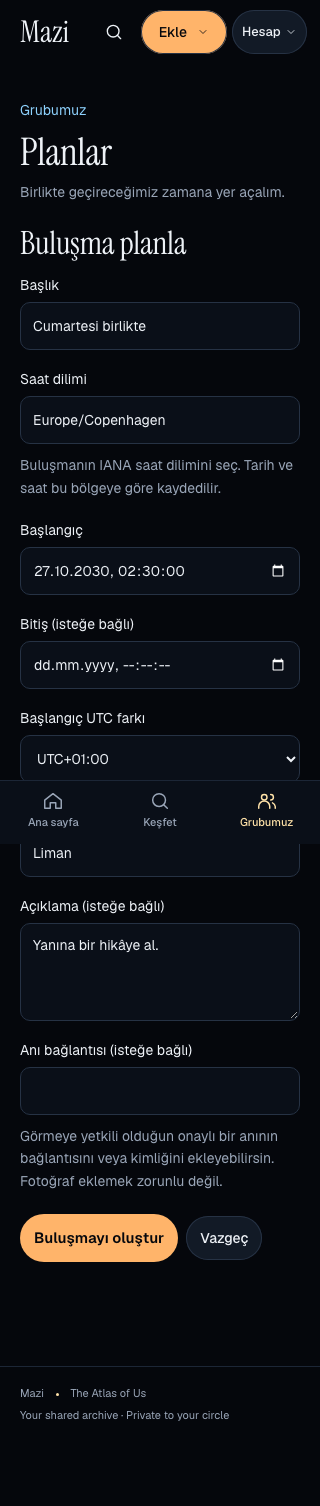
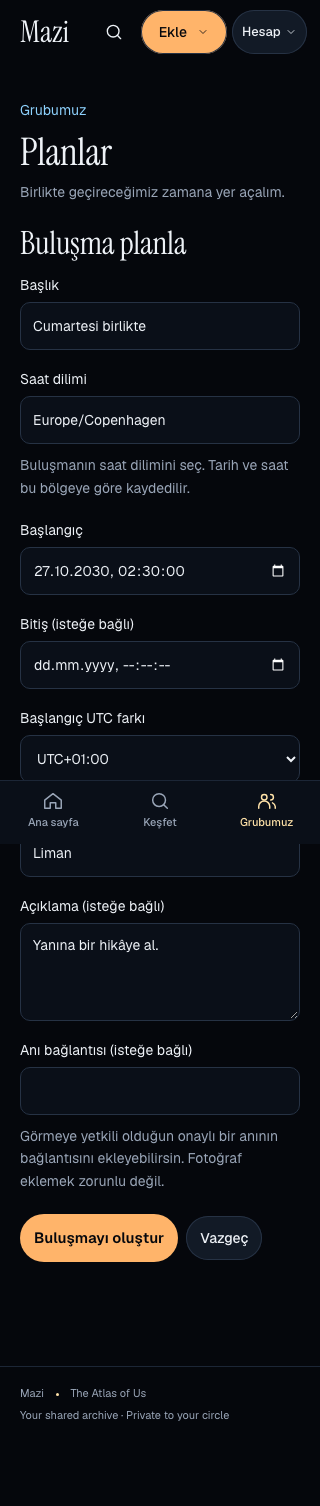
test(plans): verify reviewed edits against an isolated archive

diff --git a/tests/backend/social/plan_link_probe.py b/tests/backend/social/plan_link_probe.py
@@ -1,6 +1,9 @@
 """Run UI-produced edit patches against an isolated synthetic archive."""
 import json
+import os
 import sys
+
+os.environ["MAZI_BACKEND"] = "local"
 
 from mazi.social import social
 from tests.backend.social.test_plans import PlanMemoryTests

diff --git a/work/poteto/social-plans-ui/VERIFICATION.md b/work/poteto/social-plans-ui/VERIFICATION.md
@@ -56,3 +56,22 @@ D17 exposes one configured circle. The browser fixture changes that configured c
 The app writes no private plan text or draft to localStorage or sessionStorage. No production API, schema, hosted environment or personal archive changed in this interface slice. The test-only controls live in `tests/browser/social_server.py` and are excluded from deployment. That fixture forces the local backend and a temporary archive regardless of inherited hosted settings.
 
 `npm run test:app` now runs the existing integrated archive fixture and the separate empty social fixture in sequence. The coordinator owns the final complete regression run, independent review, PR publication, merge and deployment. The five-friend findability study and physical-phone pilot remain open. Phone evidence uses Chromium emulation and does not establish production milestone acceptance.
+
+## Accepted review correction
+
+The independent review found that an organizer-hidden memory projects as null while the persisted plan association remains available to other members. The original full-field edit payload silently unlinked it. Red commit `6eb218a` demonstrates that unwanted payload ([red output](HIDDEN_LINK_RED.txt)); fix `ce010ca` compares fields against the original opened draft, retaining that baseline across stale-revision reload. Explicit visible-link clearing still sends null. An untouched draft closes without a server write. Access loss and successful writes discard the baseline. Product help now asks for a timezone and an approved memory link without implementation vocabulary.
+
+The focused DOM contract now submits real input changes. Its isolated Python probe takes the actual UI-produced title-only and explicit-unlink patches into a fresh local MemoryStore using the existing synthetic approved-memory fixture. It hides the organizer's memory, verifies the other member can still see the association, edits, unhides and verifies the link returns, then explicitly clears it and verifies both members lose the association. The temporary archive is removed in finally; the empty browser fixture is never populated or changed by this test. The probe forces local storage independently of inherited environment.
+
+Current `origin/main` `39249c4` was merged at `784c580`. Only appended canonical-document conflicts required reconciliation; both sides were retained, and the superseded backend-only acceptance sentence was removed. This includes the current combined comments, reactions, declarations and selected-photo backend work.
+
+Verification on that combined app:
+
+- `node --test tests/dom/social-plans.test.mjs tests/dom/route-history.test.mjs tests/dom/discord-return.test.mjs`: 28 pass, including the real archive probe ([output](REVIEW_DOM.txt)).
+- `MAZI_UNIFIED_PORT=8144 npx playwright test --config playwright.social.config.ts`: 15 pass, one duplicate phone case skipped, 21.1 seconds ([output](REVIEW_BROWSER.txt)). This reruns real uncertain-response replay, stale editing, offset choice, edit/cancel/delete, independent desktop/phone attendance and access loss.
+- Typecheck, Prettier lint and browser-startup production build pass.
+- Existing budgets pass unchanged: entry 148.2/150 KiB gzip, all scripts 398.5/400, stylesheet 36.8/40, globe 242.9/256. This reflects the combined app, rather than attributing all growth to the fix.
+- Document checker: 19 authored documents, 333 local links. Whole branch whitespace check passes.
+- Repeated-hour phone form capture refreshed and visually inspected after help-copy correction.
+
+Independent focused re-review remains the coordinator's gate before publication. No push, production data, schema change or deployment was performed here.

diff --git a/docs/CONTRACTS.md b/docs/CONTRACTS.md
@@ -190,7 +190,7 @@ SQLite schema initialization and the hosted migration create the same plan, atte
 
 `/circle?section=plans` opens the bounded upcoming list. `scope=all` includes past and cancelled plans. A detail link includes both `group` and `plan`; the current group must match before the page reads that plan. The existing group/session gate still verifies membership. The Plans route fetches no Atlas or per-card notebook data. Its create action and the Ekle menu require no existing photograph.
 
-The form asks for local start, optional end and an IANA timezone. A nonexistent local time cannot be submitted. A repeated time exposes a required UTC-offset choice. The server validates every value again. The optional memory field accepts an existing approved-memory identifier or detail link, and linking preserves archive chronology. Editing another field preserves start-time seconds already present in the plan.
+The form asks for local start, optional end and an IANA timezone. A nonexistent local time cannot be submitted. A repeated time exposes a required UTC-offset choice. The server validates every value again. The optional memory field accepts an existing approved-memory identifier or detail link, and linking preserves archive chronology. Editing another field preserves start-time seconds already present in the plan. Updates contain only fields changed from the opened draft. An unavailable memory projection is not an unlink: an unchanged association is omitted, while clearing a visible link sends explicit null. Reloading a stale revision retains the original edit baseline and draft. Saving an untouched draft closes it without a write.
 
 A draft and an uncertain write command stay in component memory. An uncertain response offers retry of the exact payload and request key; another save stays blocked until that command resolves. HTTP 409 offers the current plan for comparison without replacing the draft. Group, profile or access loss clears both and aborts requests. Late reads and writes cannot restore them. The app does not write private plan text or drafts to browser storage. Demo Plans never reads or writes the real group's social API.
 
